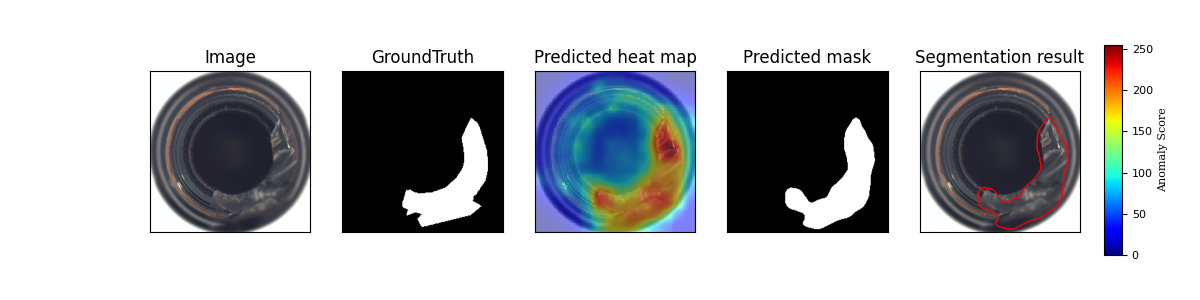
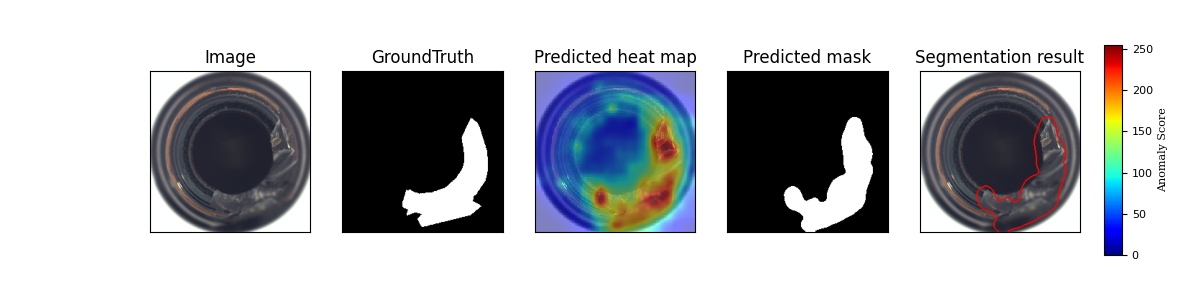
Use resnet18

diff --git a/anomaly_detection/padim/padim.py b/anomaly_detection/padim/padim.py
@@ -53,7 +53,7 @@ IMAGE_SIZE = 224
 
 parser = get_base_parser('PaDiM model', IMAGE_PATH, SAVE_IMAGE_PATH)
 parser.add_argument(
-    '-a', '--arch', default='wide_resnet50_2', choices=('resnet18', 'wide_resnet50_2'),
+    '-a', '--arch', default='resnet18', choices=('resnet18', 'wide_resnet50_2'),
     help='arch model.'
 )
 parser.add_argument(
@@ -170,7 +170,12 @@ def get_train_outputs(net, create_net, idx):
 
         _ = net.predict(imgs)
 
-        for key, name in zip(train_outputs.keys(), ("356", "398", "460")):
+        if args.arch=="resnet18":
+            feature_layer_names = ("140", "156", "172")
+        else:
+            feature_layer_names = ("356", "398", "460")
+
+        for key, name in zip(train_outputs.keys(), feature_layer_names):
             train_outputs[key].append(net.get_blob_data(name))
 
     logger.info('postprocessing...')
